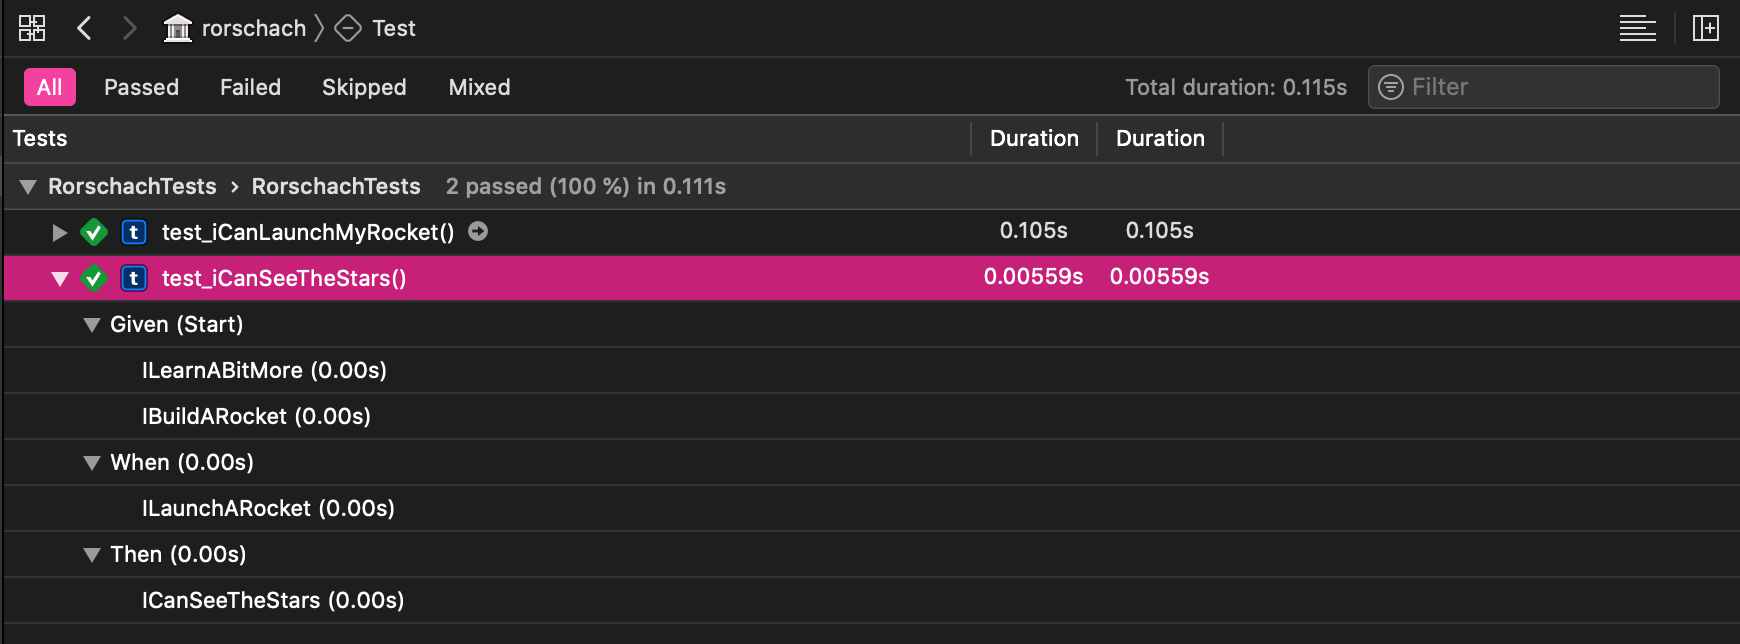
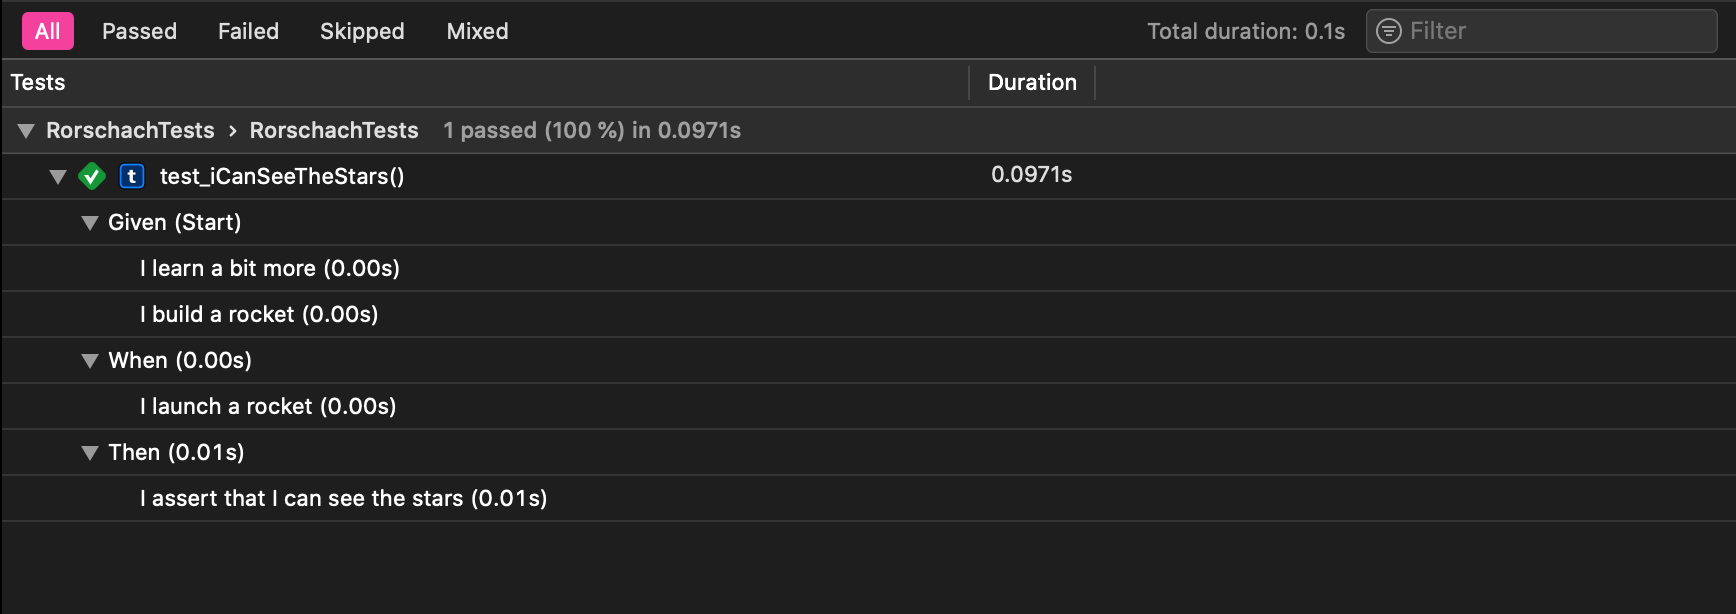
Add titles to example steps and assertion

Changed region(s): [[0.0, 0.0, 1.0, 0.3094], [0.0, 0.3404, 1.0, 0.5261], [0.0311, 0.557, 0.3111, 0.9593]]

diff --git a/Tests/RorschachTests/StepsAndAssertions.swift b/Tests/RorschachTests/StepsAndAssertions.swift
@@ -16,12 +16,20 @@ public class UniverseContext {
 
 class ILearnABitMore: Step<UniverseContext> {
 
+    override var title: String {
+        "I learn a bit more"
+    }
+
     override func execute(in context: inout UniverseContext) {
         print("I am learning...")
     }
 }
 
 class IBuildARocket: Step<UniverseContext> {
+
+    override var title: String {
+        "I build a rocket"
+    }
 
     override func execute(in context: inout UniverseContext) {
         context.numberOfStars = 7
@@ -31,6 +39,10 @@ class IBuildARocket: Step<UniverseContext> {
 
 class ILaunchARocket: Step<UniverseContext> {
 
+    override var title: String {
+        "I launch a rocket"
+    }
+
     override func execute(in context: inout UniverseContext) {
         print("I launch a rocket")
     }
@@ -39,6 +51,10 @@ class ILaunchARocket: Step<UniverseContext> {
 // MARK: Assertions
 
 class ICanSeeTheStars: Assertion<UniverseContext> {
+
+    override var title: String {
+        "I assert that I can see the stars"
+    }
 
     override func assert(in context: UniverseContext) {
         print("I can see \(context.numberOfStars) stars!")

diff --git a/README.md b/README.md
@@ -23,4 +23,4 @@ func test_iCanSeeTheStars() {
 
 ---
 
-<img width=600 src="Resources/test-output.png" alt="Example Output in the Report navigator"> 
+<img width=800 src="Resources/test-output.png" alt="Example Output in the Report navigator"> 
